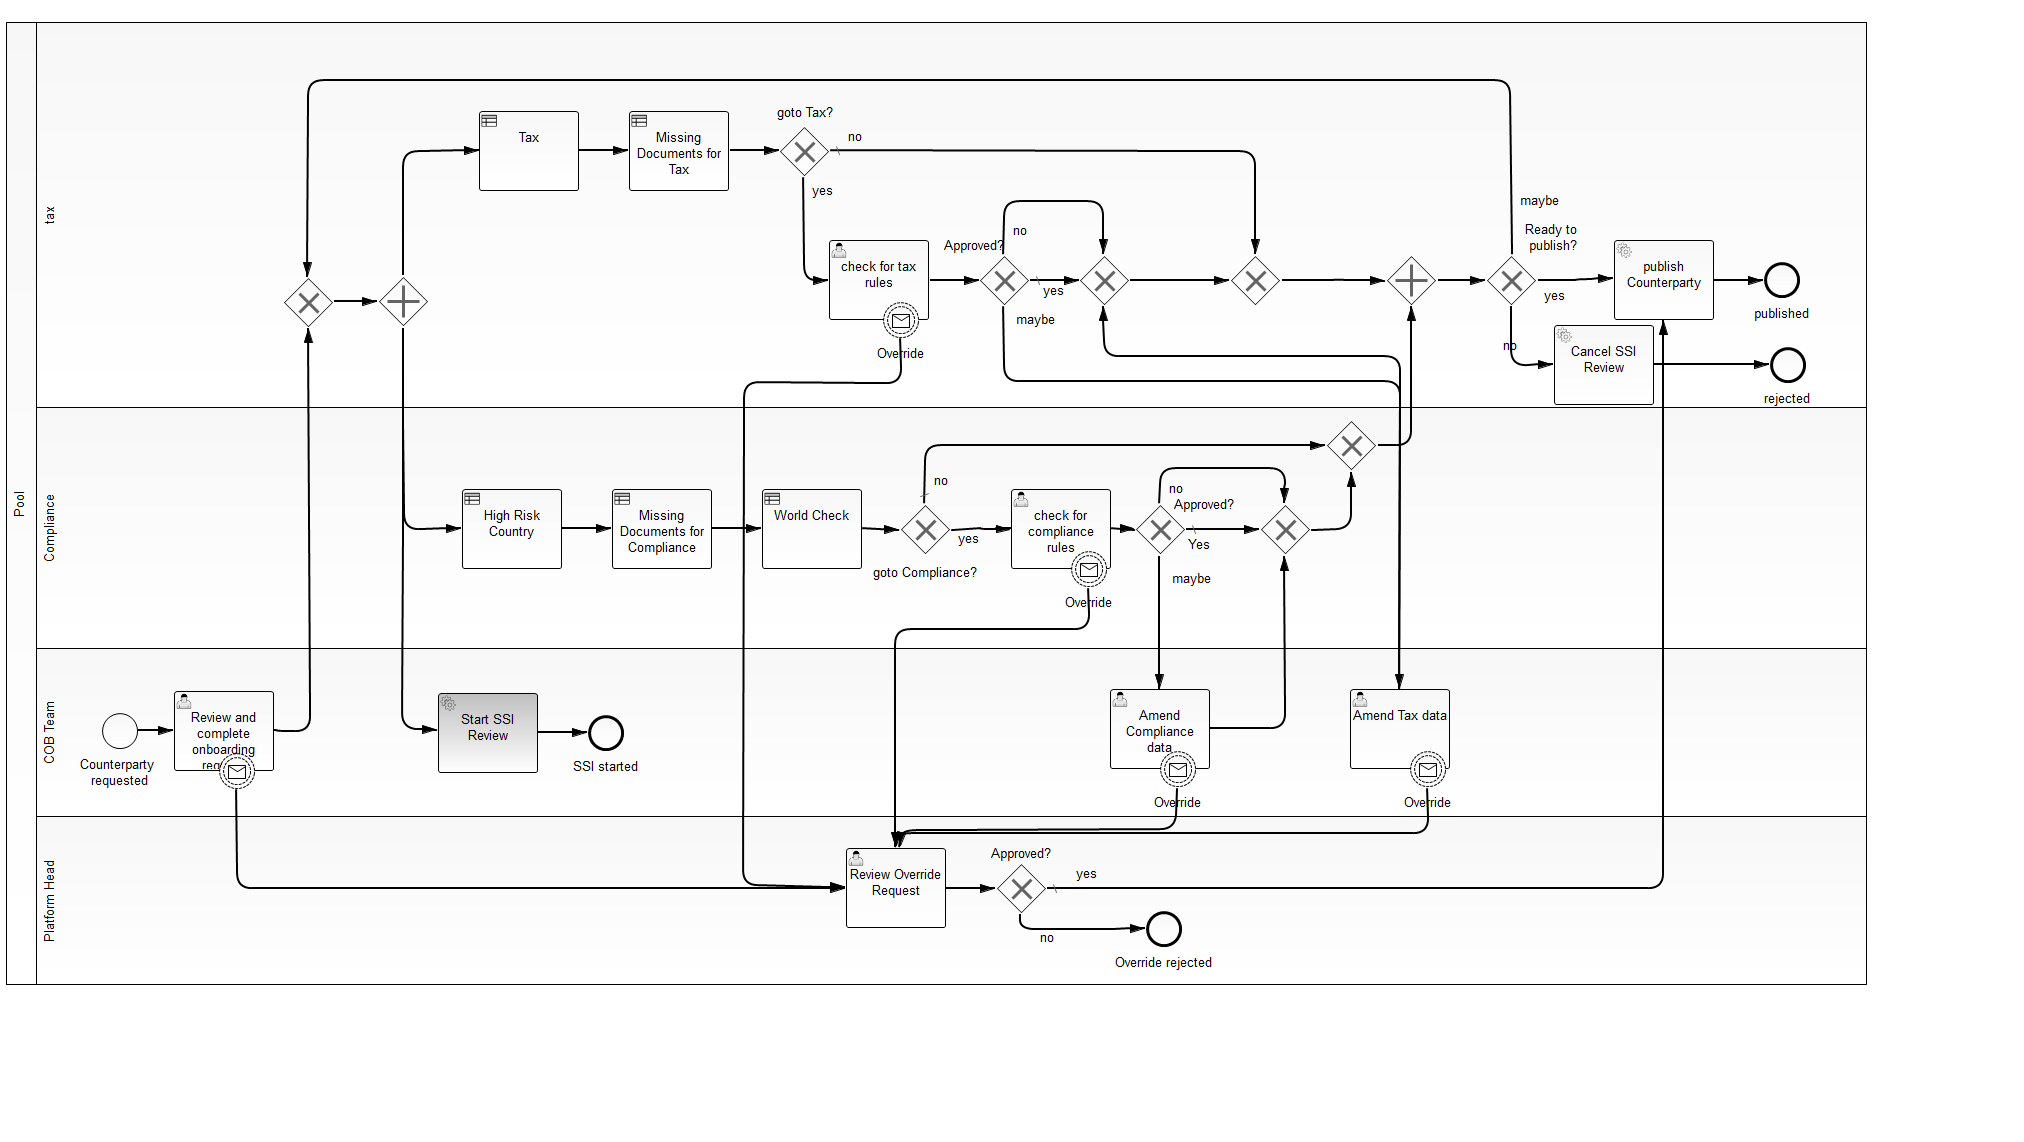
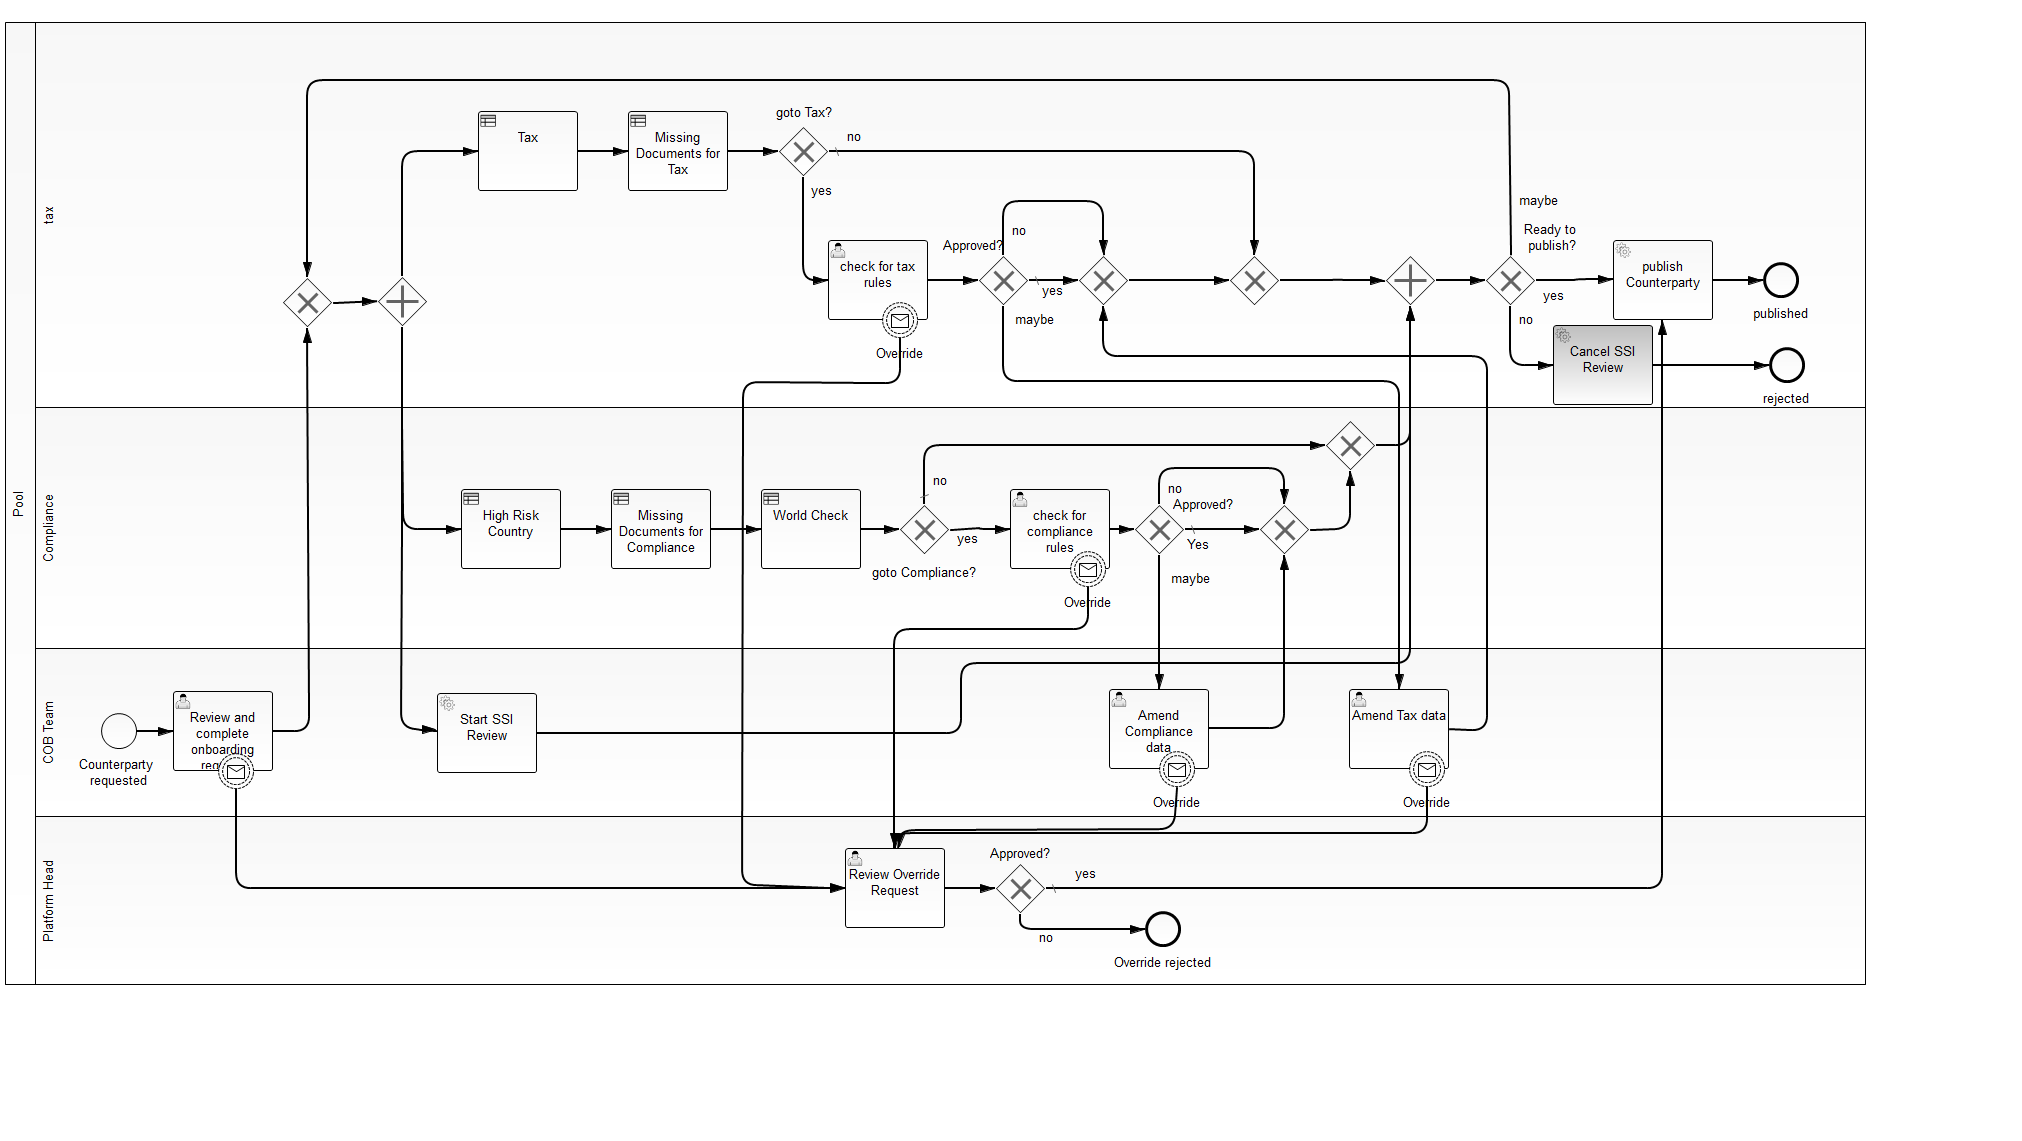
test start and cancel ssi approval process

diff --git a/projects/cob/src/test/java/com/noble/bpm/cob/CounterpartyOnboardingTest.java b/projects/cob/src/test/java/com/noble/bpm/cob/CounterpartyOnboardingTest.java
@@ -16,6 +16,7 @@ import org.camunda.bpm.engine.impl.interceptor.CommandContext;
 import org.camunda.bpm.engine.impl.jobexecutor.JobHandler;
 import org.camunda.bpm.engine.impl.persistence.entity.ExecutionEntity;
 import org.camunda.bpm.engine.impl.persistence.entity.TaskEntity;
+import org.camunda.bpm.engine.impl.persistence.entity.TimerEntity;
 import org.camunda.bpm.engine.impl.util.ClockUtil;
 import org.camunda.bpm.engine.impl.util.LogUtil;
 import org.camunda.bpm.engine.impl.util.LogUtil.ThreadLogMode;
@@ -51,13 +52,13 @@ public class CounterpartyOnboardingTest {
 	 * Just tests if the process definition is deployable.
 	 */
 	@Test
-	@Deployment(resources = "counterparty-onboarding.bpmn")
+	@Deployment(resources = { "counterparty-onboarding.bpmn", "ssi-approval.bpmn" })
 	public void testParsingAndDeployment() {
 		// nothing is done here, as we just want to check for exceptions during deployment
 	}
 	
 	@Test
-	@Deployment(resources = "counterparty-onboarding.bpmn") 
+	@Deployment(resources = {"counterparty-onboarding.bpmn", "ssi-approval.bpmn"}) 
 	public void testConditionsComplianceFineTaxMaybeNot() {
 		ProcessInstance pi = runtimeService().startProcessInstanceByKey(PROCESS_DEFINITION_KEY);
 		Task reviewOnboardingRequest = taskQuery().singleResult();
@@ -69,25 +70,29 @@ public class CounterpartyOnboardingTest {
 				"complianceApproved", "yes"));
 		
 		// ... tax approval says maybe ...
-		Task checkForTaxRules = taskQuery().singleResult();
+		Task checkForTaxRules = taskQuery().processInstanceId(pi.getId()).singleResult();
 		complete(checkForTaxRules, withVariables("taxApproved", "maybe"));
 		
 		// ... amend tax data ...
 		assertThat(pi).isWaitingAt("UserTask_4");
-		Task amendTask = taskQuery().singleResult();
+		Task amendTask = taskQuery().processInstanceId(pi.getId()).singleResult();
 		complete(amendTask);
 		
 		// ... amended data approval will fail ...
 		assertThat(pi).isWaitingAt("UserTask_3");
-		checkForTaxRules = taskQuery().singleResult();
+		checkForTaxRules = taskQuery().processInstanceId(pi.getId()).singleResult();
 		complete(checkForTaxRules, withVariables("taxApproved", "no"));
 		
+		// complete the async service task
+		Job continuation = jobQuery().messages().singleResult();
+		execute(continuation);
+		
 		// ... request has been rejected cause of failing tax approval
-		assertThat(pi).isEnded().hasPassed("EndEvent_2");
+		assertThat(pi).isEnded().hasPassed("EndEvent_2");		
 	}
 
 	@Test
-	@Deployment(resources = "counterparty-onboarding.bpmn")
+	@Deployment(resources = {"counterparty-onboarding.bpmn", "ssi-approval.bpmn"})
 	public void overrideRequest() {
 		ProcessInstance pi = runtimeService().startProcessInstanceByKey(PROCESS_DEFINITION_KEY, 
 				withVariables(
@@ -145,7 +150,7 @@ public class CounterpartyOnboardingTest {
 	}
 
 	@Test
-	@Deployment(resources = "counterparty-onboarding.bpmn")
+	@Deployment(resources = {"counterparty-onboarding.bpmn", "ssi-approval.bpmn"})
 	public void handleSubTask() {
 		ProcessInstance pi = runtimeService().startProcessInstanceByKey(PROCESS_DEFINITION_KEY,
 				withVariables("CPTYNumber", new Long(345)));
@@ -189,8 +194,8 @@ public class CounterpartyOnboardingTest {
 		assertThat(procVars).containsEntry("additionalApproval", "yes");
 
 		// the task appears in the history of the process instance
-		List<HistoricTaskInstance> passedTask = historyService().createHistoricTaskInstanceQuery().processInstanceId(pi.getId()).list();
-		assertThat(passedTask).extracting("name").contains("Additional review of counterparty", "Review and complete onboarding request");
+		List<HistoricTaskInstance> passedTasks = historyService().createHistoricTaskInstanceQuery().processInstanceId(pi.getId()).list();
+		assertThat(passedTasks).extracting("name").contains("Additional review of counterparty", "Review and complete onboarding request");
 		
 		// work on the origin task
 		taskService().complete(reviewCounterpartyRequest.getId(), 
@@ -209,8 +214,8 @@ public class CounterpartyOnboardingTest {
 		// due date is set to PT2H, two hours
 		runtimeService().startProcessInstanceByKey(PROCESS_DEFINITION_KEY);
 		Task reviewRequest = taskQuery().singleResult();
-		assertThat(reviewRequest.getDueDate()).isAfter(new Date(System.currentTimeMillis() + 115 * 60 * 1000L))
-			.isBefore(new Date(System.currentTimeMillis() + 125 * 60 * 1000L));
+		assertThat(reviewRequest.getDueDate()).isAfter(new Date(System.currentTimeMillis() + 295 * 60 * 1000L))
+			.isBefore(new Date(System.currentTimeMillis() + 305 * 60 * 1000L));
 	}
 	
 	@Test
@@ -231,13 +236,15 @@ public class CounterpartyOnboardingTest {
 	}
 	
 	@Test
-	@Deployment(resources = "counterparty-onboarding.bpmn")
+	@Deployment(resources = {"counterparty-onboarding.bpmn", "ssi-approval.bpmn"})
 	public void deleteTimerWithCompletion() {
 		runtimeService().startProcessInstanceByKey(PROCESS_DEFINITION_KEY);
 		Task reviewRequest = taskQuery().singleResult();
 		complete(reviewRequest, withVariables("gotoTax", "yes", "gotoCompliance", "no"));
 		List<Job> jobList = jobQuery().list();
-		assertThat(jobList).isEmpty();
+		assertThat(jobList).hasSize(1); // the timer for compliance
+		TimerEntity timer = (TimerEntity) jobList.get(0);
+		assertThat(timer.getJobHandlerType()).isEqualTo(EscalationJobHandler.ESCALATION_JOB_HANDLER_TYPE);
 	}
 	
 	@Test
@@ -264,6 +271,48 @@ public class CounterpartyOnboardingTest {
 		
 		// check if the jobHandler was called
 		verify(mockedHandler).execute(anyString(), any(ExecutionEntity.class), any(CommandContext.class));
+		processEngineConfiguration.getJobExecutor().shutdown();
+	}
+	
+	@Test
+	@Deployment(resources = {"counterparty-onboarding.bpmn", "ssi-approval.bpmn" })
+	public void startSSIProcess() {
+		ProcessInstance pi = runtimeService().startProcessInstanceByKey(PROCESS_DEFINITION_KEY, 
+				withVariables("CPTYNumber", new Long(345)));
+		Task reviewRequest = taskQuery().singleResult();
+		complete(reviewRequest, withVariables(
+				"gotoTax", "yes", 
+				"gotoCompliance", "no"));
+		List<ProcessInstance> procInsts = runtimeService().createProcessInstanceQuery().list();
+		assertThat(procInsts).hasSize(2);
+		assertThat(pi).hasVariables("ssiApprovalInstanceId");
+		String ssiApprovalProcessInstanceId = (String) runtimeService().getVariable(pi.getId(), "ssiApprovalInstanceId");
+		ProcessInstance ssiApproval = runtimeService().createProcessInstanceQuery().processInstanceId(ssiApprovalProcessInstanceId).singleResult();
+		assertThat(ssiApproval).hasVariables("CPTYNumber");
+	}
+	
+	@Test
+	@Deployment(resources = {"counterparty-onboarding.bpmn", "ssi-approval.bpmn"})
+	public void cancelSSIProcess() {
+		runtimeService().startProcessInstanceByKey(PROCESS_DEFINITION_KEY);
+		Task reviewRequest = taskQuery().singleResult();
+		complete(reviewRequest, withVariables(
+				"gotoTax", "no",
+				"taxApproved", "no", 
+				"gotoCompliance", "no",
+				"complianceApproved", "no"));
+		Job continuation = jobQuery().messages().singleResult();
+		execute(continuation);
+		List<ProcessInstance> procInsts = runtimeService().createProcessInstanceQuery().list();
+		assertThat(procInsts).isEmpty();
+		assertThat(historyService()
+				.createHistoricVariableInstanceQuery()
+				.variableName("ssiApprovalInstanceId")
+				.singleResult()).isNotNull();
+		assertThat(historyService()
+				.createHistoricVariableInstanceQuery()
+				.variableName("cancelReason")
+				.singleResult().getValue()).isEqualTo("original counterparty request is rejected");
 	}
 
 }

diff --git a/projects/cob/src/main/java/com/noble/bpm/cob/subprocess/CancelProcessDelegate.java b/projects/cob/src/main/java/com/noble/bpm/cob/subprocess/CancelProcessDelegate.java
@@ -1,0 +1,17 @@
+package com.noble.bpm.cob.subprocess;
+
+import org.camunda.bpm.engine.RuntimeService;
+import org.camunda.bpm.engine.delegate.DelegateExecution;
+import org.camunda.bpm.engine.delegate.JavaDelegate;
+
+public class CancelProcessDelegate implements JavaDelegate {
+
+	@Override
+	public void execute(DelegateExecution execution) throws Exception {
+		String subProcessInstanceId = (String) execution.getVariable("ssiApprovalInstanceId");
+		RuntimeService runtimeService = execution.getProcessEngineServices().getRuntimeService();
+		runtimeService.setVariable(subProcessInstanceId, "cancelReason", "original counterparty request is rejected");
+		runtimeService.deleteProcessInstance(subProcessInstanceId, "original counterparty request is rejected");
+	}
+
+}

diff --git a/projects/cob/src/main/java/com/noble/bpm/cob/subprocess/StartProcessDelegate.java b/projects/cob/src/main/java/com/noble/bpm/cob/subprocess/StartProcessDelegate.java
@@ -1,0 +1,20 @@
+package com.noble.bpm.cob.subprocess;
+
+import org.camunda.bpm.engine.delegate.DelegateExecution;
+import org.camunda.bpm.engine.delegate.JavaDelegate;
+import org.camunda.bpm.engine.runtime.ProcessInstance;
+
+public class StartProcessDelegate implements JavaDelegate {
+
+	@Override
+	public void execute(DelegateExecution execution) throws Exception {
+		ProcessInstance ssiApprovalInstance = execution
+				.getProcessEngineServices()
+				.getRuntimeService()
+				.startProcessInstanceByKey(
+						"ssi-approval", 
+						execution.getVariables());
+		execution.setVariable("ssiApprovalInstanceId", ssiApprovalInstance.getProcessInstanceId());
+	}
+
+}

diff --git a/projects/cob/README.md b/projects/cob/README.md
@@ -188,6 +188,22 @@ If you want to add users, groups and memberships with the REST api, check out th
 
 You find the rest calls with methods, resource and payload in `user-group-membership.txt`.
 
+Start independent subprocess
+----------------------------
+
+To start an independent sub process, which is a new process instance that access the same counterparty request, you need a service task that calls the engine api to start a new process instance. After starting the process instance id will be saved in a process variable for further access.
+
+The service task is implemented in the class `StartProcessDelegate`.
+
+Cancel independent subprocess
+-----------------------------
+
+If you want to cancel the subprocess, because the request was rejected, you need another service task that calls the engine service to delete a process instance. 
+
+This service task is implemented in the class `CancelProcessDelegate`.
+
+And for the reason, that the process can reach the cancel service directly from the complete of the review bypassing the tax and compliance review, you have to make the service call asynchronous. The transaction will be committed before the process will be canceled.   
+
 How to use it?
 --------------
 
